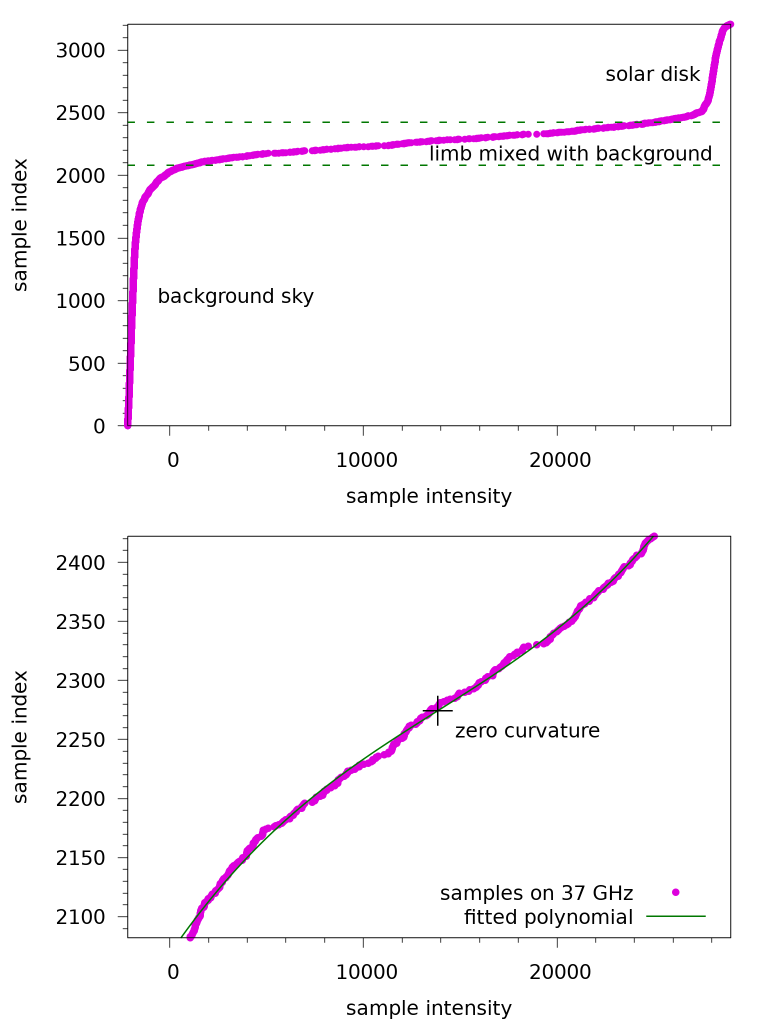
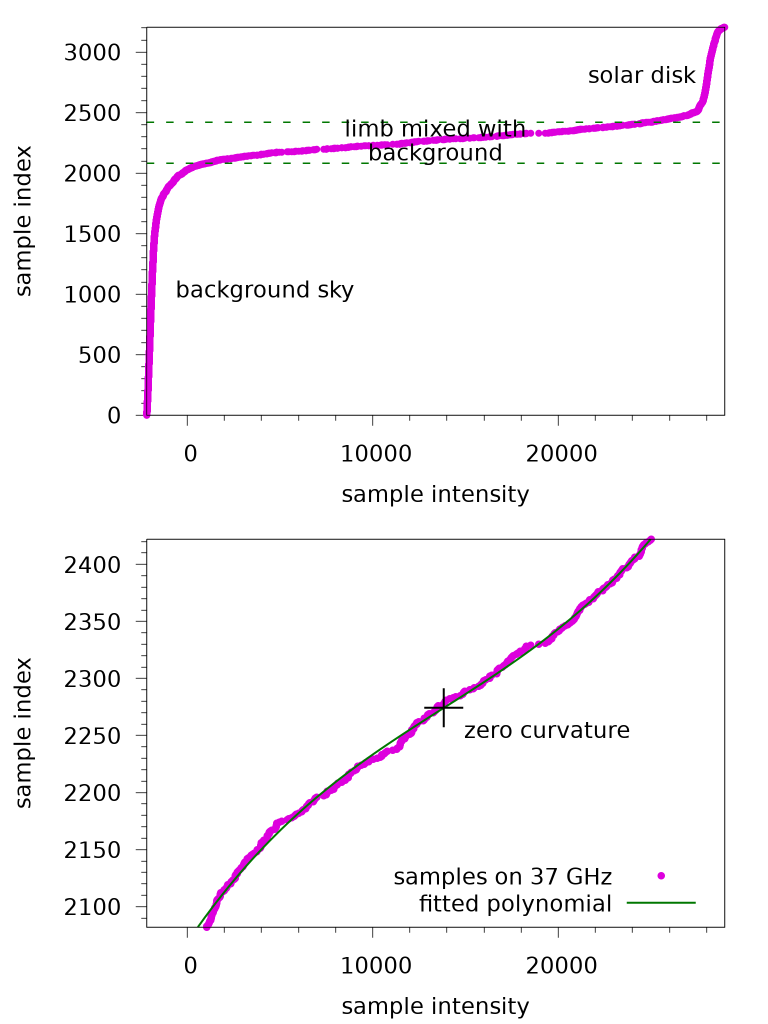
Sami's plots

diff --git a/main_P1.tex b/main_P1.tex
@@ -745,6 +745,7 @@ There are odd number of such roots, so we choose the one in the middle: $u_0 := 
 \begin{figure}
 \centering
 \includegraphics[width=8.5cm]{Scurve_example.png}
+\begin{picture}(0,0)(0,0) \put(-215,315){\begin{huge}a\end{huge}} \put(-215,158){\begin{huge}b\end{huge}} \end{picture}
 \caption{Radio samples of a typical solar scan sorted according to intensity. a) All samples. Between the dashed lines are the mixed samples which have contribution from the solar limb as well as the background. b) Only the mixed samples, into which a polynomial is fitted. A point of zero curvature (cross) provides a pivot point for signal level normalization.}
 \label{S-curve_example}
 \end{figure}
@@ -841,18 +842,12 @@ separate polynomials $P_n$ and $Q_m$ should reduce these risks.
 Limb intensity profiles showing brightening. 
 \begin{figure}
 \centering
-\includegraphics[width=8.5cm]{limbmodel_profiles1.png}
-%MJK Here the axis labels now have huge (even too big) a font, while the label ticks still have quite a small font. Also, the legend box in the upper right corner overlaps with the data; can it be placed, e.g., in the upper left corner?
-\caption{Limb intensity profiles showing brightening. When observed at low altitudes, the profiles are significantly blurred. Comment: fix font sizes.}
-\label{limb_brightening1}
-\end{figure}
-
-\begin{figure}
-\centering
-\includegraphics[width=8.5cm]{limbmodel_profiles2.png}
-%MJK Too small axis labels and ticks.
-\caption{Limb intensity profiles with convolution effects. Comment: Fix font sizes.}
-\label{limb_brightening2}
+\includegraphics[width=8.5cm]{limbmodel_profiles.png}
+\begin{picture}(0,0)(0,0) \put(-220,315){\begin{huge}a\end{huge}} \put(-220,158){\begin{huge}b\end{huge}} \end{picture}
+\caption{Average quiet Sun intensity as a function of radial distance from the visual center, normalized for the center 
+intensity. a) Limb brightening is observed when line of sight is almost tangential to the solar surface. b) The beam 
+size of $2.4 \prime$ mixes the solar limb with the dark background, resulting in a convolution pattern. On both plots, we observe more blurring when the altitude of observation is low, due to atmospheric effects.}
+\label{limb_brightening}
 \end{figure}
 
 \begin{figure*}
